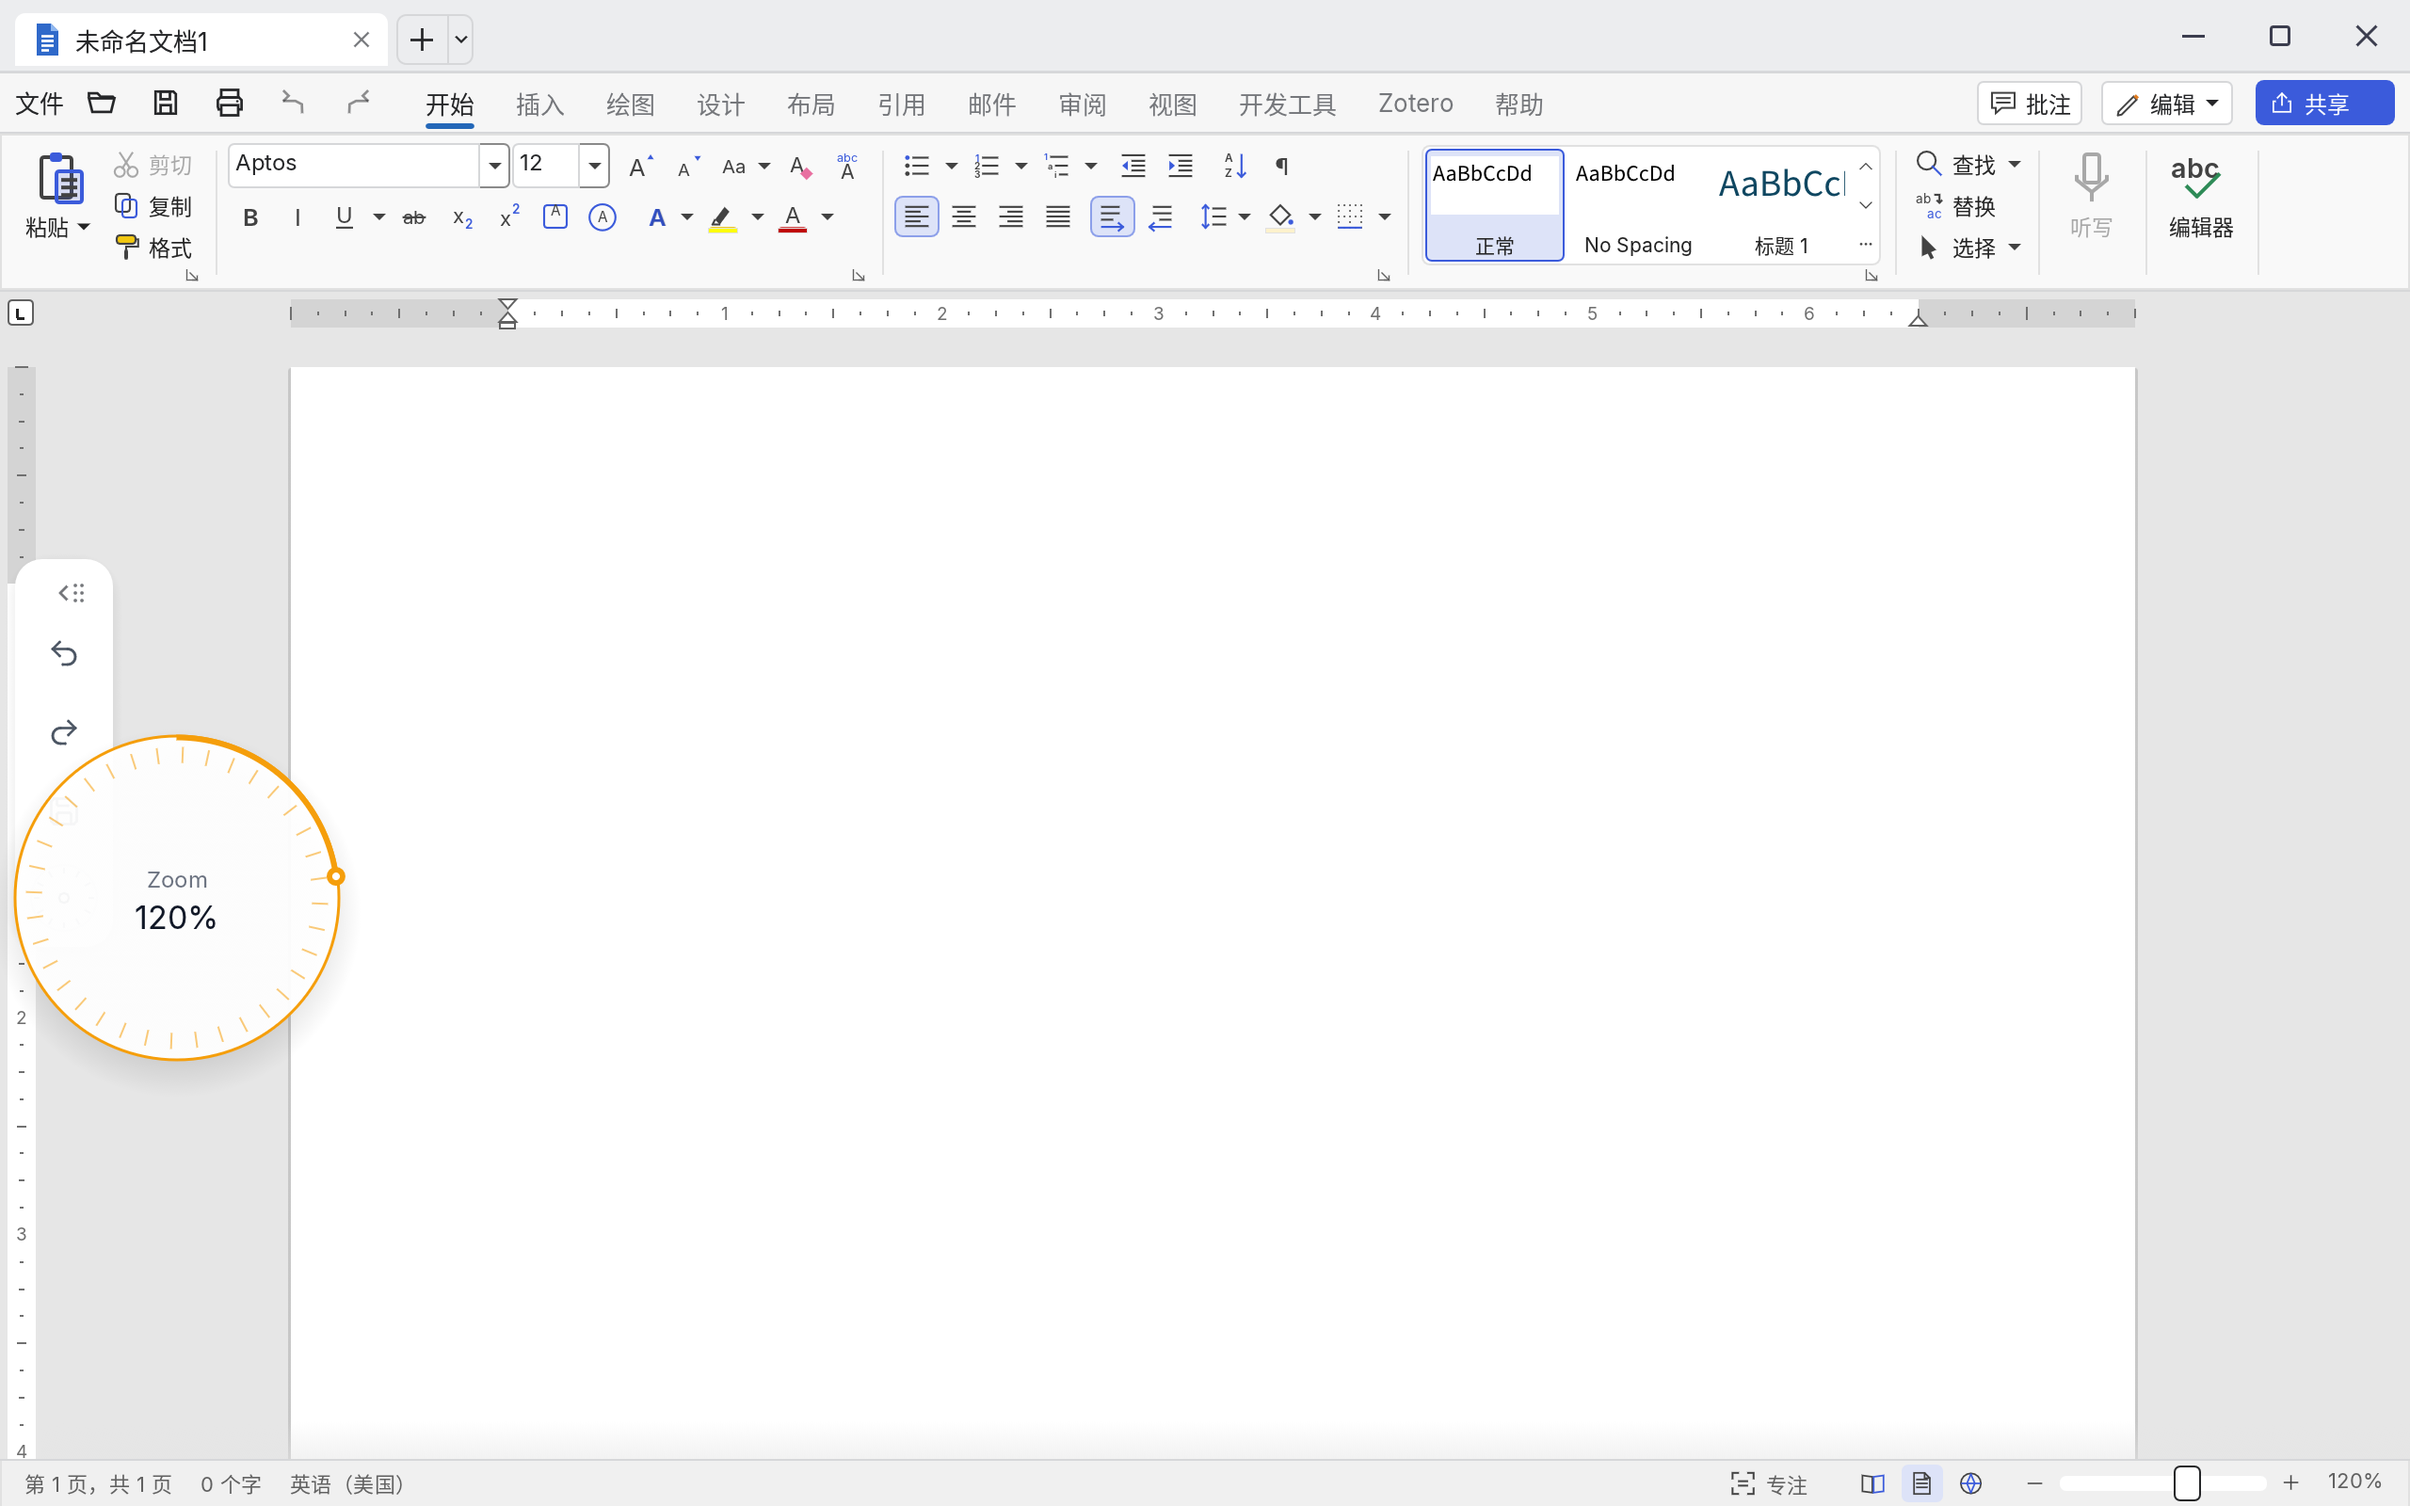
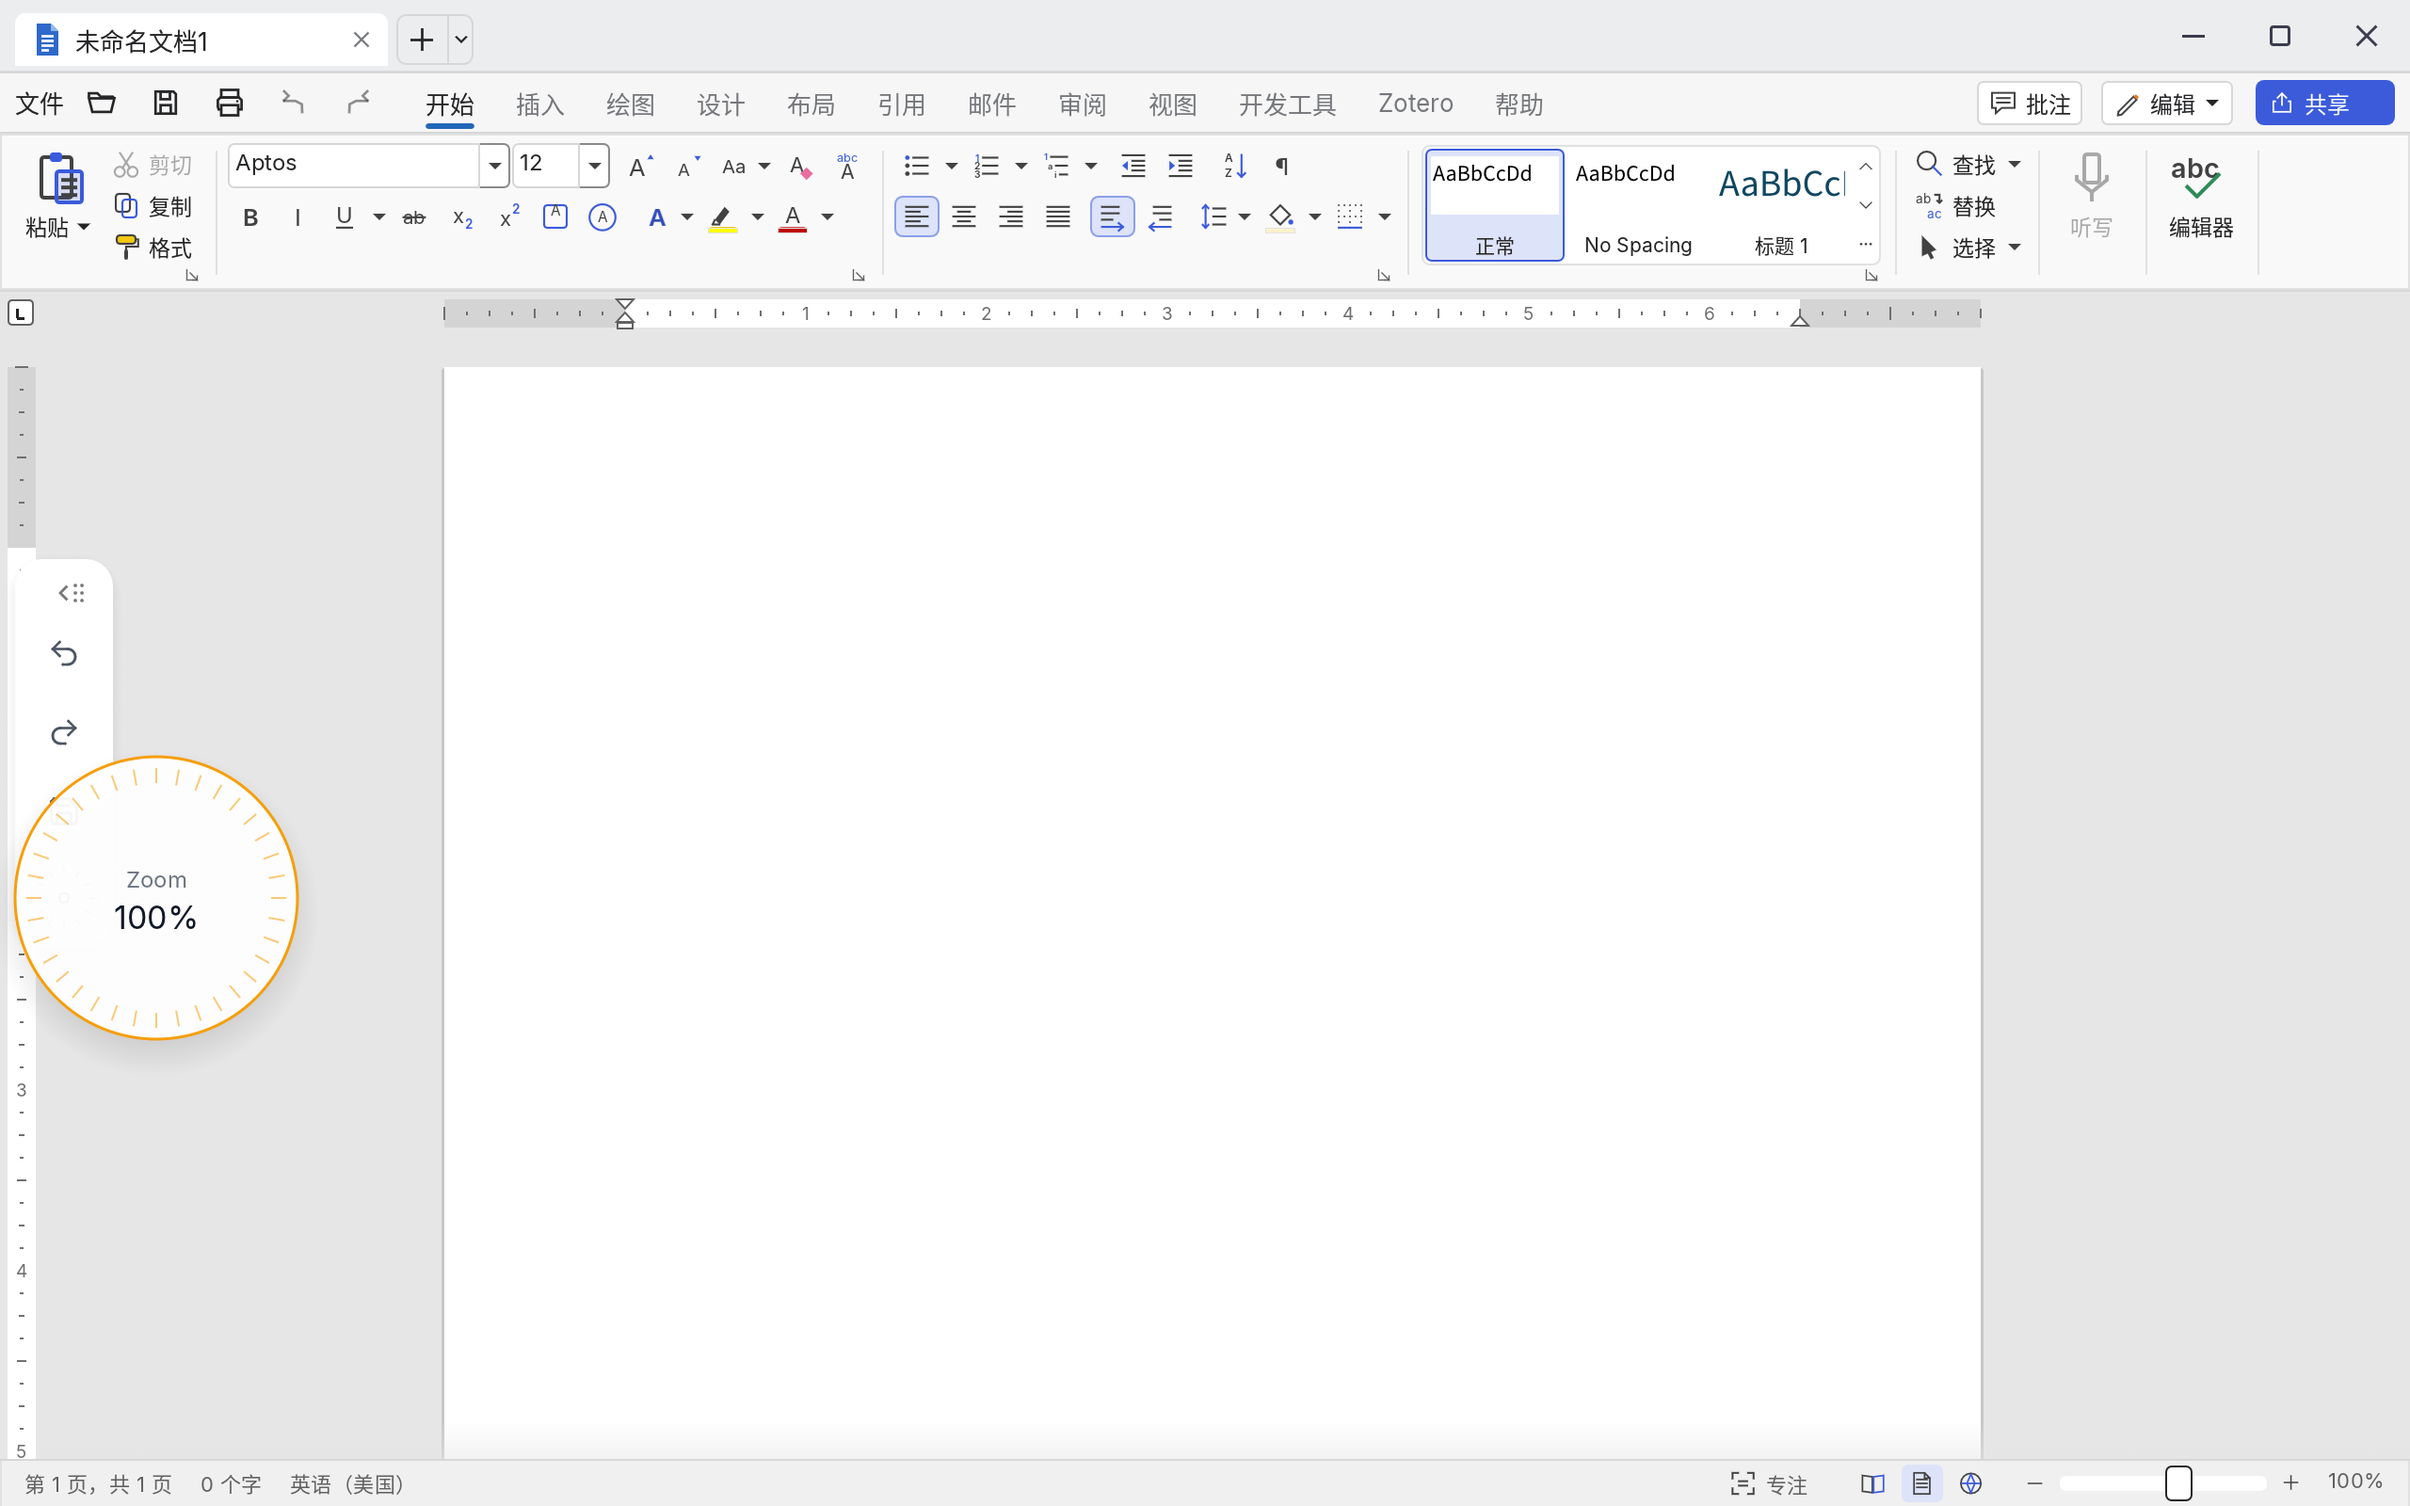
Android: a 150 pt dial, and no progress arc
The dial was 172 pt; it is 150 pt now, which leaves more of the document
visible. The orange progress arc and its cursor dot are gone: they read as a
0-100% progress bar, but the zoom runs from 10% to 500%, so the arc was
misleading. The rotating ticks and the percentage in the middle carry the
feedback instead.

diff --git a/apps/weave-office-android/src/pad.rs b/apps/weave-office-android/src/pad.rs
@@ -36,8 +36,8 @@ const BAR_H: f32 = 20.0;
 const EDGE: f32 = 8.0;
 const WHEEL_GAP: f32 = 10.0;
 
-/// The dial that opens from the wheel: 172 pt across, anchored at the strip's edge.
-const DIAL: f32 = 172.0;
+/// The dial that opens from the wheel: 150 pt across, anchored at the strip's edge.
+const DIAL: f32 = 150.0;
 const DIAL_TICKS: usize = 36;
 const ACCENT: egui::Color32 = egui::Color32::from_rgb(0xF5, 0x9E, 0x0B);
 const DIAL_LABEL: egui::Color32 = egui::Color32::from_rgb(0x6B, 0x72, 0x80);
@@ -575,23 +575,6 @@ impl Pad {
                 [center + direction * (radius - 14.0), center + direction * (radius - 6.0)],
                 egui::Stroke::new(1.0, fade(ACCENT.gamma_multiply(0.55))),
             );
-        }
-        // The progress arc: from the top, as far as the dial has been turned.
-        let sweep = self.wheel_turn.clamp(-std::f32::consts::TAU, std::f32::consts::TAU);
-        if sweep.abs() > 0.02 {
-            let start = -std::f32::consts::FRAC_PI_2;
-            let steps = 48;
-            let points: Vec<egui::Pos2> = (0..=steps)
-                .map(|i| {
-                    let angle = start + sweep * i as f32 / steps as f32;
-                    center + egui::vec2(angle.cos(), angle.sin()) * (radius - 0.75)
-                })
-                .collect();
-            painter.add(egui::Shape::line(points, egui::Stroke::new(3.0, fade(ACCENT))));
-            let end = start + sweep;
-            let dot = center + egui::vec2(end.cos(), end.sin()) * (radius - 0.75);
-            painter.circle_filled(dot, 5.0, fade(ACCENT));
-            painter.circle_filled(dot, 2.0, fade(egui::Color32::WHITE));
         }
         painter.text(
             center + egui::vec2(0.0, -10.0),

diff --git a/docs/android/STATUS.md b/docs/android/STATUS.md
@@ -18,7 +18,7 @@
 | Vendored dependency stubs | `vendor/rfd` and `vendor/arboard` add the Android backends upstream lacks (dialogs cancelled, clipboard unsupported), patched in `Cargo.toml` |
 | **SAF bridge** | `src/bridge.rs` + `WeaveOfficeActivity`: Open/Save through Android's document pickers; picked documents are copied into `bridge/inbox/<id>/`, saves write `bridge/out/<id>/` and the Activity copies them back to the document (polled, once per write) |
 | **IME bridge** | `src/ime.rs` + the Shell wrapper: the keyboard's text state is polled each frame and replayed as egui Text/Backspace/Enter events (the action key arrives as a newline); the keyboard is put away when focus leaves |
-| **Shortcut Pad** | `src/pad.rs`: a light card on either edge with 2–10 compact 36 pt square keys (6 pt apart, 8 pt padding) and a wheel. The keys carry Lucide-style 18 pt line icons (1.75 pt stroke, round caps, #4B5563) and show their names in a tooltip on hover or a long press. At rest the wheel is a minimal 36 pt ring (hairline #E5E7EB, twelve 3 pt ticks, a 4 pt hollow hub); pressing it opens a 172 pt dial anchored at the strip's edge — frosted white, an orange ring and 36 rotating ticks, a progress arc with a cursor dot, and the active document's zoom in the middle. Turning it follows the zoom continuously (a full turn doubles it, like a pinch) through `view.zoom`, or runs the wheel's two actions one step per twelfth of a turn when they are not zoom commands. The strip folds with a height/opacity animation (the arrow turns 180°), drags to either edge and snaps there, and a long-press on the arrow opens its settings (`shortcut-pad.json`) |
+| **Shortcut Pad** | `src/pad.rs`: a light card on either edge with 2–10 compact 36 pt square keys (6 pt apart, 8 pt padding) and a wheel. The keys carry Lucide-style 18 pt line icons (1.75 pt stroke, round caps, #4B5563) and show their names in a tooltip on hover or a long press. At rest the wheel is a minimal 36 pt ring (hairline #E5E7EB, twelve 3 pt ticks, a 4 pt hollow hub); pressing it opens a 150 pt dial anchored at the strip's edge — frosted white, an orange ring and 36 ticks that rotate with the turn, and the active document's zoom in the middle. Turning it follows the zoom continuously (a full turn doubles it, like a pinch) through `view.zoom`, or runs the wheel's two actions one step per twelfth of a turn when they are not zoom commands. The strip folds with a height/opacity animation (the arrow turns 180°), drags to either edge and snaps there, and a long-press on the arrow opens its settings (`shortcut-pad.json`) |
 | **Touch scrolling** | `src/touch.rs`: two fingers' movement becomes the wheel events winit's Android backend never emits; the pointer egui-winit made from the first finger is dropped while scrolling |
 | **Open with / Share** | The Activity accepts `ACTION_VIEW`/`ACTION_SEND` for docx/xlsx/pptx/pdf/md/txt, copies the document into `bridge/incoming/`, and the shell moves it to `bridge/documents/` and opens it once (`WeaveApp::open_external`) |
 | **Phone layout** | A phone-class screen (smallest side under 600 pt) gets the interface at 75% |
